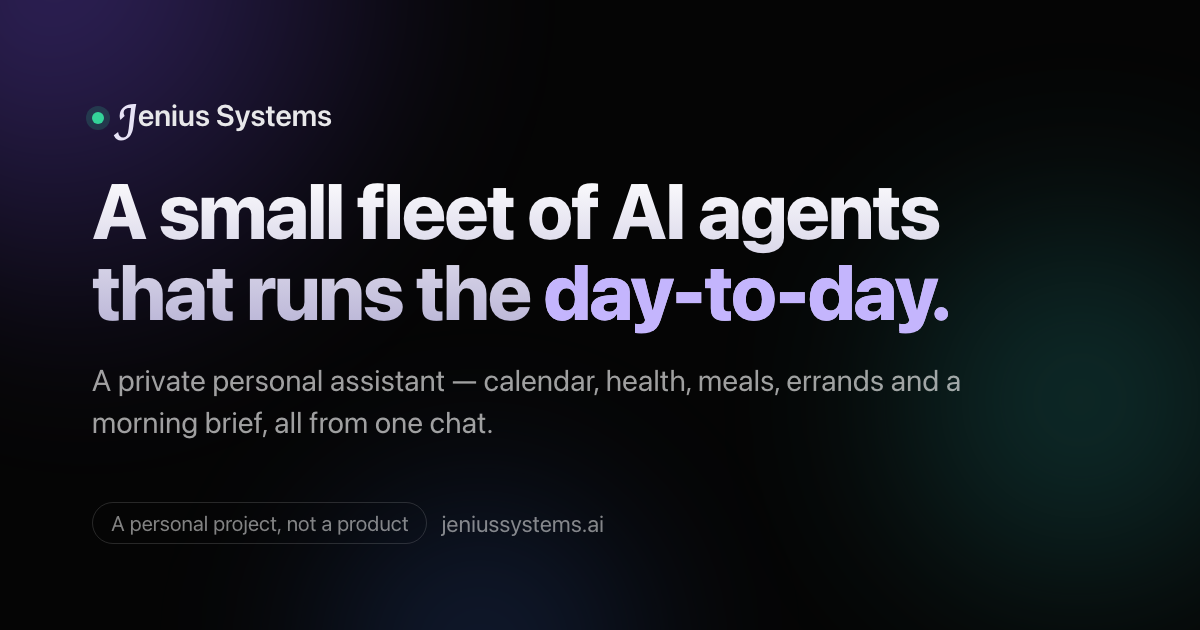
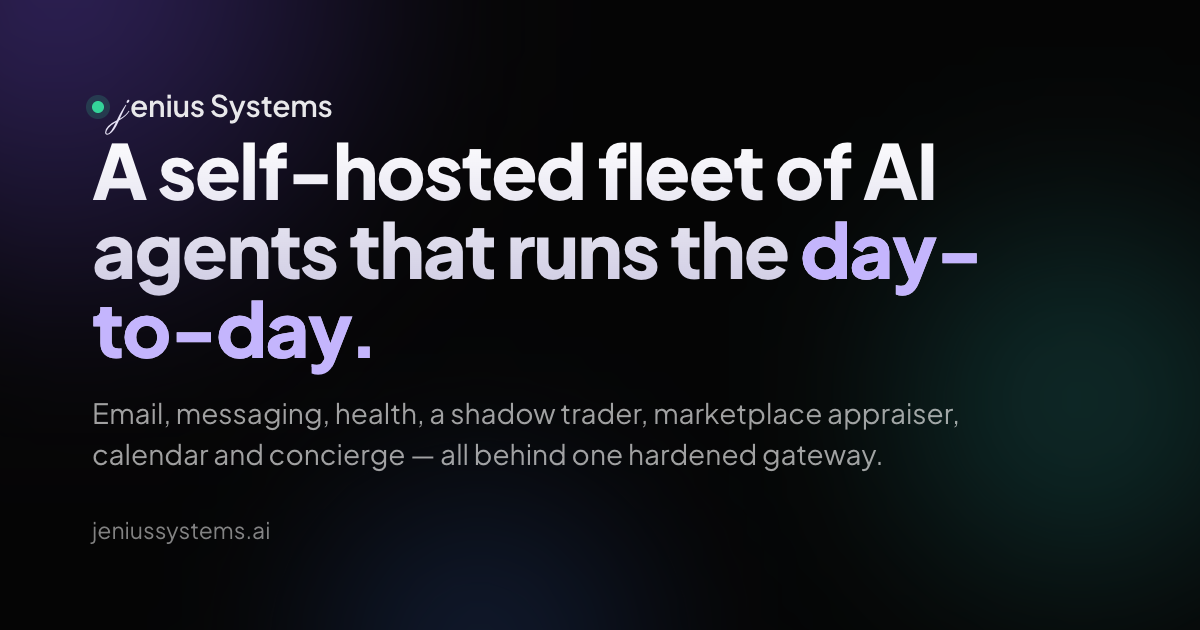
fix: regenerate og card with lowercase brand j, current copy
- og-card.html: brand wordmark lowercase cursive j (Parisienne), removed
  "personal project / not a product" footer pill, headline/subline aligned
  to current hero (self-hosted fleet, hardened gateway), no internal terms
- og.png: re-rendered at exact 1200×630 via headless browser from the
  updated template; replaces old capital-J card

Changed region(s): [[0.0617, 0.1508, 0.8325, 0.754], [0.0617, 0.8143, 0.3392, 0.8746], [0.37, 0.8143, 0.5242, 0.8444]]

diff --git a/assets/og-card.html b/assets/og-card.html
@@ -1,0 +1,51 @@
+<!DOCTYPE html>
+<!-- Build-only source for assets/og.png (1200x630 social card). NOT deployed to the public site.
+     Regenerate: load this file in a browser at viewport 1200x630, screenshot -> assets/og.png -->
+<html lang="en">
+<head>
+<meta charset="UTF-8" />
+<link href="https://fonts.googleapis.com/css2?family=Plus+Jakarta+Sans:wght@400;600;700;800&family=Parisienne&display=swap" rel="stylesheet" />
+<style>
+  * { margin: 0; padding: 0; box-sizing: border-box; }
+  html, body { width: 1200px; height: 630px; overflow: hidden; }
+  body {
+    background: #050505;
+    color: #e8e8ea;
+    font-family: 'Plus Jakarta Sans', system-ui, sans-serif;
+    -webkit-font-smoothing: antialiased;
+    position: relative;
+  }
+  .orb { position: absolute; border-radius: 9999px; filter: blur(70px); }
+  .o1 { width: 620px; height: 620px; left: -140px; top: -220px; background: radial-gradient(circle at 30% 30%, #5b3fb0 0%, transparent 70%); opacity: 0.55; }
+  .o2 { width: 560px; height: 560px; right: -160px; top: 120px; background: radial-gradient(circle at 50% 50%, #1f6f6b 0%, transparent 70%); opacity: 0.45; }
+  .o3 { width: 480px; height: 480px; left: 240px; bottom: -260px; background: radial-gradient(circle at 50% 50%, #2b4a8f 0%, transparent 70%); opacity: 0.4; }
+  .wrap { position: relative; z-index: 2; height: 100%; padding: 86px 92px; display: flex; flex-direction: column; }
+  .brand { display: flex; align-items: center; gap: 14px; }
+  .dot { width: 12px; height: 12px; border-radius: 9999px; background: #34d399; box-shadow: 0 0 0 6px rgba(52,211,153,0.18); }
+  .brand-name { font-weight: 600; font-size: 30px; letter-spacing: -0.01em; }
+  .brand-j { font-family: 'Parisienne', cursive; font-weight: 400; font-style: normal; font-size: 40px; color: #e7e3f6; -webkit-text-fill-color: #e7e3f6; vertical-align: middle; padding-right: 0.04em; line-height: 1; }
+  h1 {
+    margin-top: auto;
+    font-weight: 800;
+    font-size: 76px;
+    line-height: 1.04;
+    letter-spacing: -0.025em;
+    max-width: 1000px;
+    background: linear-gradient(180deg, #fff 0%, #b9b4d6 100%);
+    -webkit-background-clip: text; background-clip: text; color: transparent;
+  }
+  h1 .accent { color: #c4b5fd; -webkit-text-fill-color: #c4b5fd; }
+  p.sub { margin-top: 26px; font-size: 28px; line-height: 1.45; color: rgba(255,255,255,0.62); max-width: 920px; }
+  .foot { margin-top: auto; padding-top: 40px; display: flex; align-items: center; gap: 14px; font-size: 23px; color: rgba(255,255,255,0.5); }
+</style>
+</head>
+<body>
+  <div class="orb o1"></div><div class="orb o2"></div><div class="orb o3"></div>
+  <div class="wrap">
+    <div class="brand"><span class="dot"></span><span class="brand-name"><span class="brand-j">j</span>enius Systems</span></div>
+    <h1>A self-hosted fleet of AI agents that runs the <span class="accent">day-to-day.</span></h1>
+    <p class="sub">Email, messaging, health, a shadow trader, marketplace appraiser, calendar and concierge — all behind one hardened gateway.</p>
+    <div class="foot"><span>jeniussystems.ai</span></div>
+  </div>
+</body>
+</html>